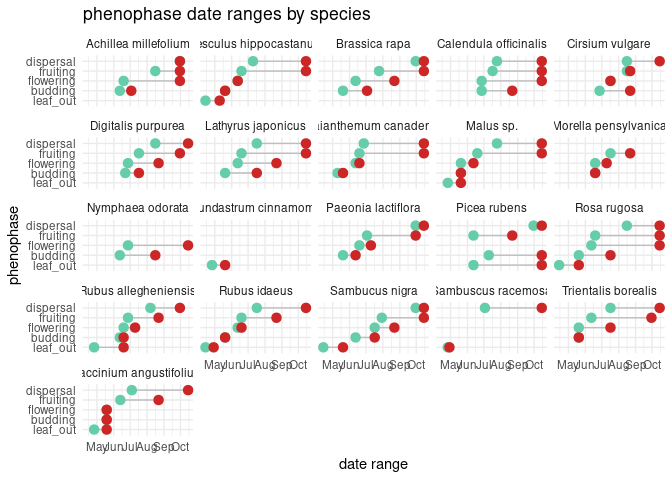
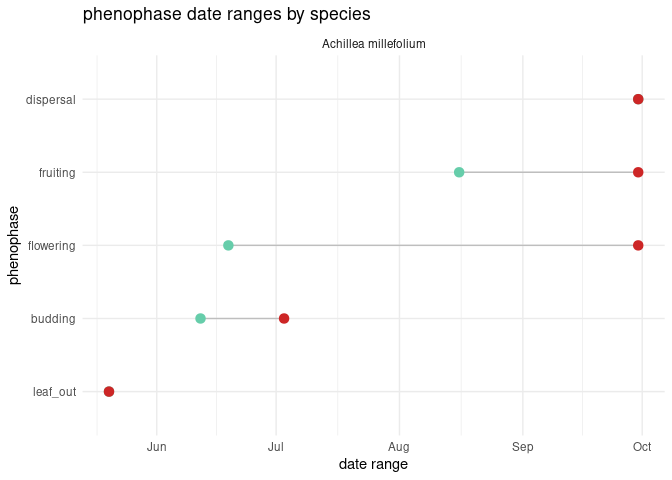
Create bar plot for amount of observations

diff --git a/analysis/analysis.md b/analysis/analysis.md
@@ -70,6 +70,18 @@ hurricane_plants <- hurricane_plants %>%
 ```
 
 ``` r
+hurricane_plants %>%
+  ggplot(aes(x= common_name)) +
+  geom_bar() +
+  coord_flip() +
+  labs(title = "amount of observations by species") +
+  xlab("") +
+  ylab("")
+```
+
+![](analysis_files/figure-gfm/create-bar-chart-1.png)<!-- -->
+
+``` r
 # first emergence column creation
 hurricane_plants_join <- hurricane_plants %>%
   # mutate(date = as.Date(date)) %>%
@@ -88,6 +100,8 @@ hurricane_plants <- hurricane_plants %>%
 # create leafing out phenophase
 hurricane_plants <- hurricane_plants %>%
   mutate(leaf_out = case_when(
+    initial_emergence == T & buds_and_flowers_count == 0  ~ T, # some reason not turning F, HELP!
+    leaf_presence == T ~ F,
     breaking_leaf_buds_count > 0 & percent_unfolded_leaves < 1 ~ T,
     percent_unfolded_leaves > 0 & percent_unfolded_leaves < 1 ~ T,
     breaking_needle_bud_count > 0 ~ T,
@@ -99,6 +113,7 @@ hurricane_plants <- hurricane_plants %>%
 hurricane_plants <- hurricane_plants %>%
   mutate(budding = case_when(
     buds_and_flowers_count > 0 & percent_open_flowers < 1 ~ T,
+    # sporangia_presence == T ~ T,
     pollen_cone_count > 0 ~ T,
     .default = F
   ))
@@ -152,7 +167,7 @@ hurricane_plants_long <- hurricane_plants %>%
 ``` r
 # plot
 hurricane_plants_long %>%
-  #filter(species == "Achillea millefolium") %>%
+  filter(species == "Achillea millefolium") %>%
 ggplot() +
   geom_segment( aes(x = (fct_relevel(phenophase, c("leaf_out",
                                                    "budding",
